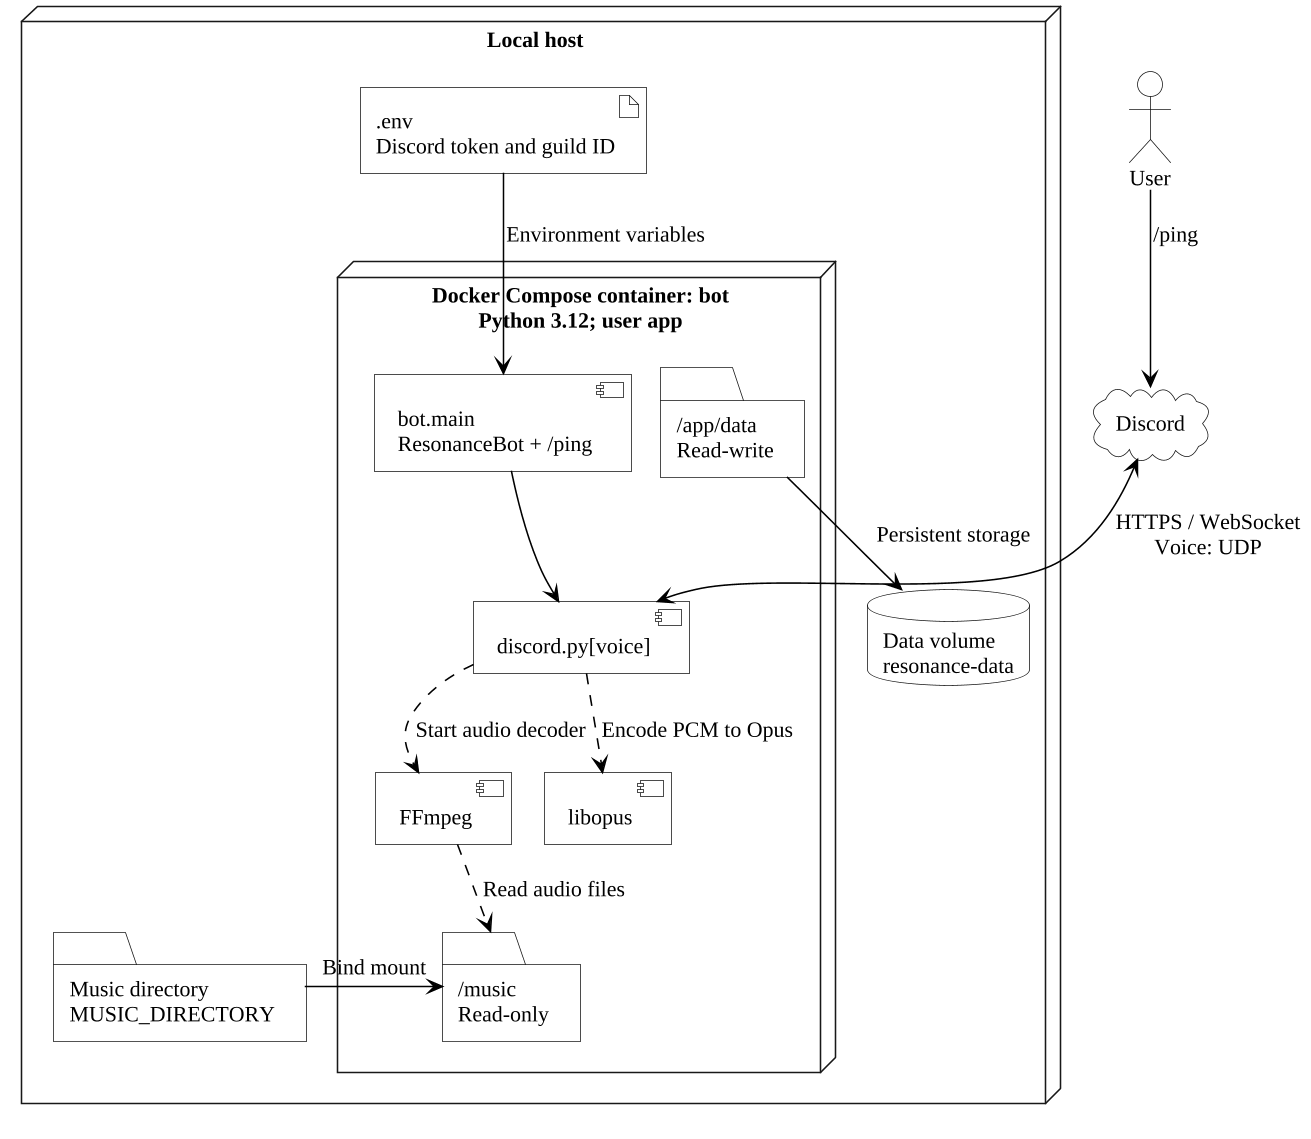
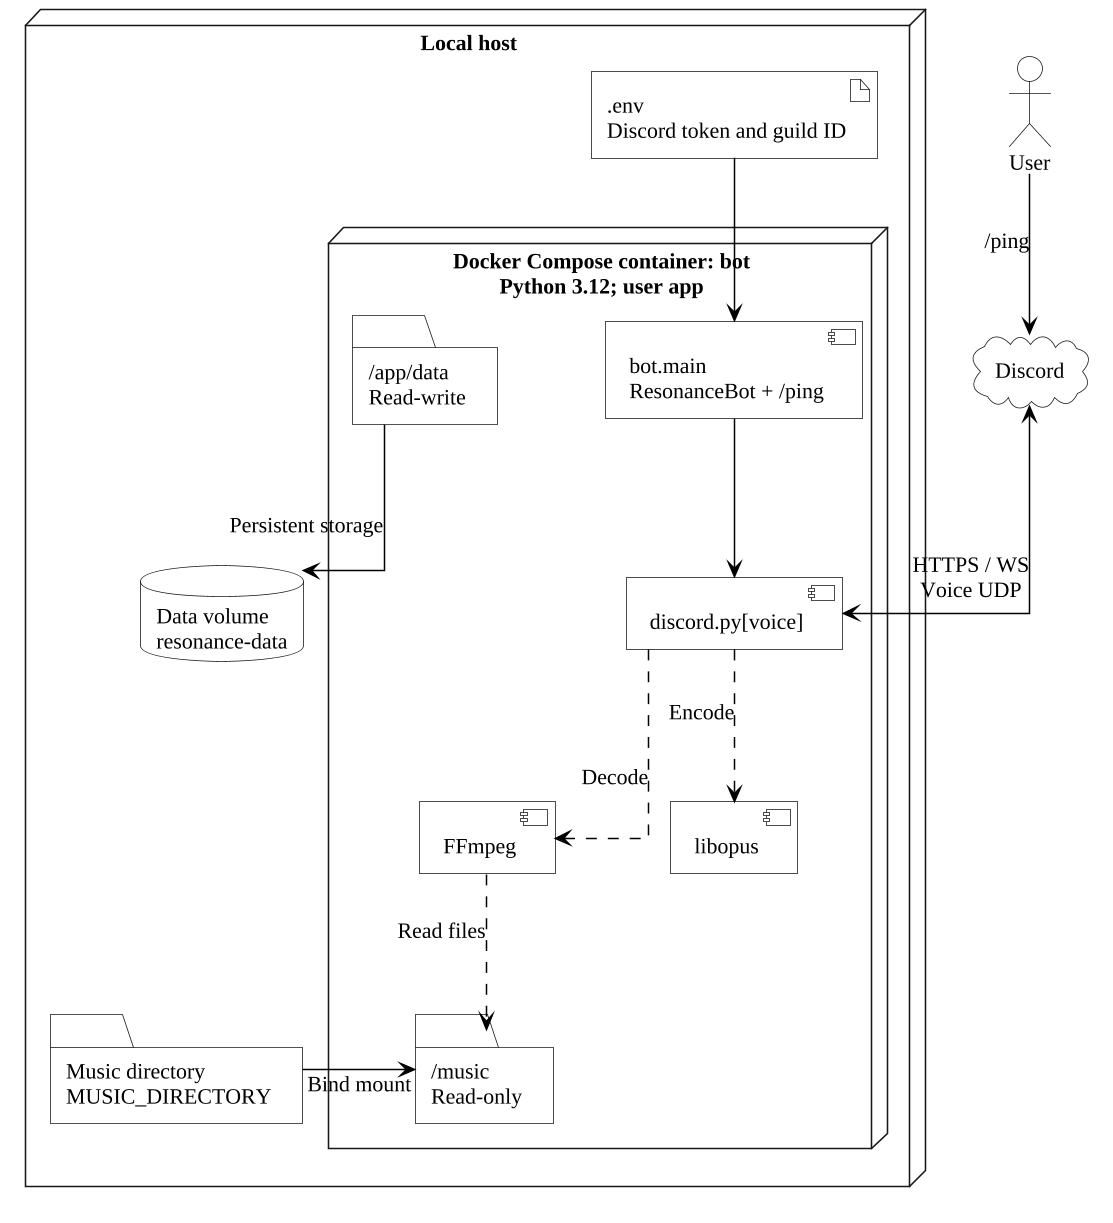
docs: remove database diagram and route UML arrows orthogonally

diff --git a/docs/README.md b/docs/README.md
@@ -5,7 +5,7 @@
 These diagrams were reconciled with `Resonance_Codex_Context.md` supplied by the project owner and the repository branches/PRs reviewed on 2026-11-24. The context describes the target project and suggestions; it is not evidence that every feature exists.
 
 - [PR #25](https://github.com/G10BAL/team-project/pull/25), `feature/bot-setup`, merged into `main`: `bot/main.py`, environment loading, guild slash command sync, and `/ping`.
-- [PR #26](https://github.com/G10BAL/team-project/pull/26), `database/initial-schema`, still open at review: `database/initial_structure.sql` and `database/schema.png`. The UML database diagram reproduces that SQL draft; it does not merge or change the other contributor's branch.
+- [PR #26](https://github.com/G10BAL/team-project/pull/26), `database/initial-schema`, still open at review: `database/initial_structure.sql` and `database/schema.png`. The database schema and its diagram are maintained by another contributor in that PR.
 - [PR #27](https://github.com/G10BAL/team-project/pull/27), `feat/docker-uml`: Docker packaging and this documentation.
 
 | Diagram | Editable source | Compiled PNG | Scope |
@@ -13,23 +13,22 @@ These diagrams were reconciled with `Resonance_Codex_Context.md` supplied by the
 | Deployment | [architecture.puml](architecture.puml) | [architecture.png](architecture.png) | Compose, environment, mounts, runtime dependencies, Discord |
 | Components | [components.puml](components.puml) | [components.png](components.png) | Current adapter and planned modules in one local application |
 | Sequence | [bot-startup-sequence.puml](bot-startup-sequence.puml) | [bot-startup-sequence.png](bot-startup-sequence.png) | Existing startup, missing configuration, guild sync, and `/ping` |
-| Database classes | [database-model.puml](database-model.puml) | [database-model.png](database-model.png) | All seven tables, foreign keys, constraints, and export view from PR #26 |
 
 ## Decisions and pending work
 
 The container uses the actual entry point `python -m bot.main`, rather than the illustrative `main.py` from the context. Runtime storage is reserved at `/app/data`; user music is read-only at `/music`. No additional service or external database is introduced.
 
-Playback, file discovery, persistence services, recommendation algorithms, and CSV export remain planned. The context proposes separate listening sessions/events, but PR #26 currently stores one track playback per `listening_sessions` row. The diagram preserves the SQL branch's current design. Listening attribution, accepted recommendation semantics, evaluation dataset, and SQLCipher driver/key handling remain team decisions. No optional ChromaDB dependency is added.
+Playback, file discovery, persistence services, recommendation algorithms, and CSV export remain planned. The context proposes separate listening sessions/events, but PR #26 currently stores one track playback per `listening_sessions` row. Listening attribution, accepted recommendation semantics, evaluation dataset, and SQLCipher driver/key handling remain team decisions. No optional ChromaDB dependency is added.
 
 ## Diagram presentation
 
 The PNGs contain only UML elements and English labels. Figure captions, numbering, legends, and explanatory notes are excluded from the images. Add figure captions in the report document so they follow its numbering and formatting. Shared print styling (white background, black lines, Liberation Serif) is defined in `diagram-style.iuml`, which must remain beside the `.puml` files during rendering.
 
-The component diagram includes planned modules; playback and persistence are not integrated yet. The deployment diagram shows the prepared voice runtime and storage layout. Its dotted audio dependencies describe the planned PCM playback path: discord.py starts FFmpeg to decode files from /music and uses libopus to encode PCM for Discord voice. Playback commands are not implemented yet. The database diagram follows the schema draft in PR #26; `listening_sessions` stores one track playback per row. `participant_group` accepts `participant` or `team`, session status accepts `playing`, `finished`, or `skipped`, and all foreign keys use `ON DELETE CASCADE`.
+The component diagram includes planned modules; playback and persistence are not integrated yet. The deployment diagram shows the prepared voice runtime and storage layout. Its dotted audio dependencies describe the planned PCM playback path: discord.py starts FFmpeg to decode files from /music and uses libopus to encode PCM for Discord voice. Playback commands are not implemented yet.
 
 ## Regenerate PNGs locally
 
-Use Java and an official [PlantUML release JAR](https://github.com/plantuml/plantuml/releases). These PNGs were rendered with PlantUML **1.2026.10**. The diagrams use the bundled Smetana layout engine where needed, so Graphviz is not required. Rendering is local and does not upload diagrams to a web service.
+Use Java and an official [PlantUML release JAR](https://github.com/plantuml/plantuml/releases). These PNGs were rendered with PlantUML **1.2026.10**. Install Graphviz (`dot`) for the orthogonal deployment and component layouts. Sequence messages use horizontal arrows and rectangular self-calls. Rendering is local and does not upload diagrams to a web service.
 
 ```bash
 bash scripts/render-uml.sh /absolute/path/to/plantuml-1.2026.10.jar

diff --git a/README.md b/README.md
@@ -90,7 +90,6 @@ See [diagram documentation](docs/README.md) for implementation status, links to 
 - [Deployment PNG](docs/architecture.png) / [source](docs/architecture.puml)
 - [Modules PNG](docs/components.png) / [source](docs/components.puml)
 - [Startup and `/ping` PNG](docs/bot-startup-sequence.png) / [source](docs/bot-startup-sequence.puml)
-- [Database UML PNG](docs/database-model.png) / [source](docs/database-model.puml)
 
 ## Commands
 
